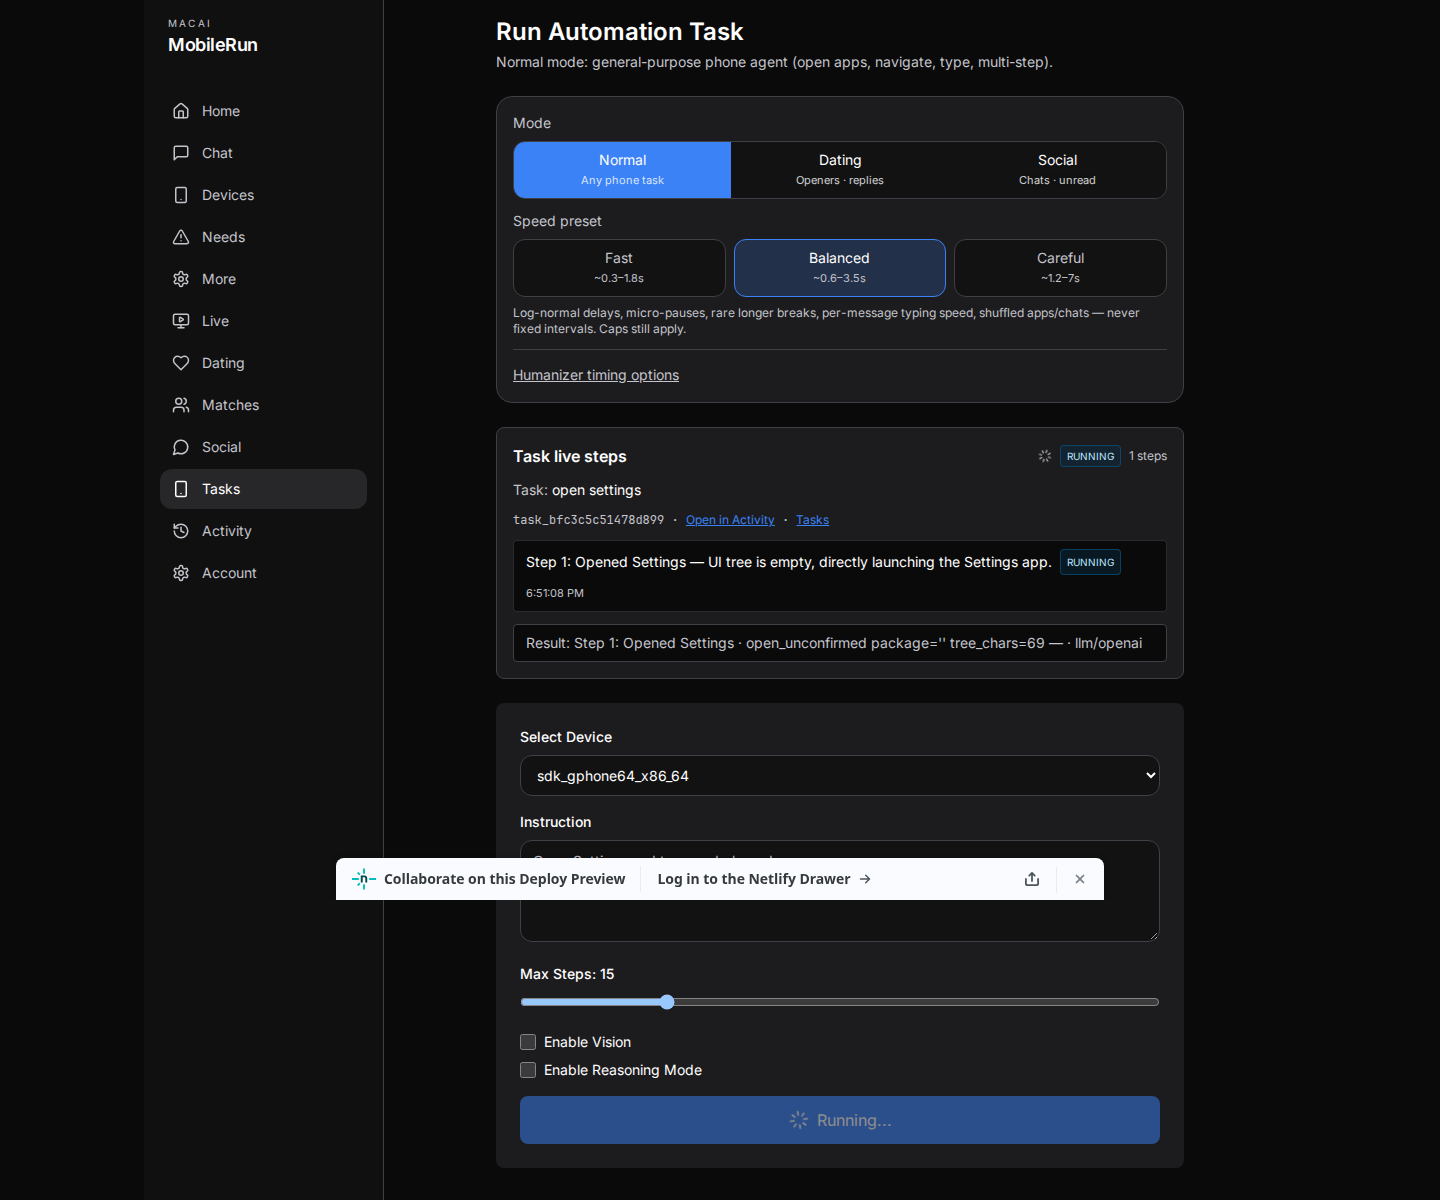
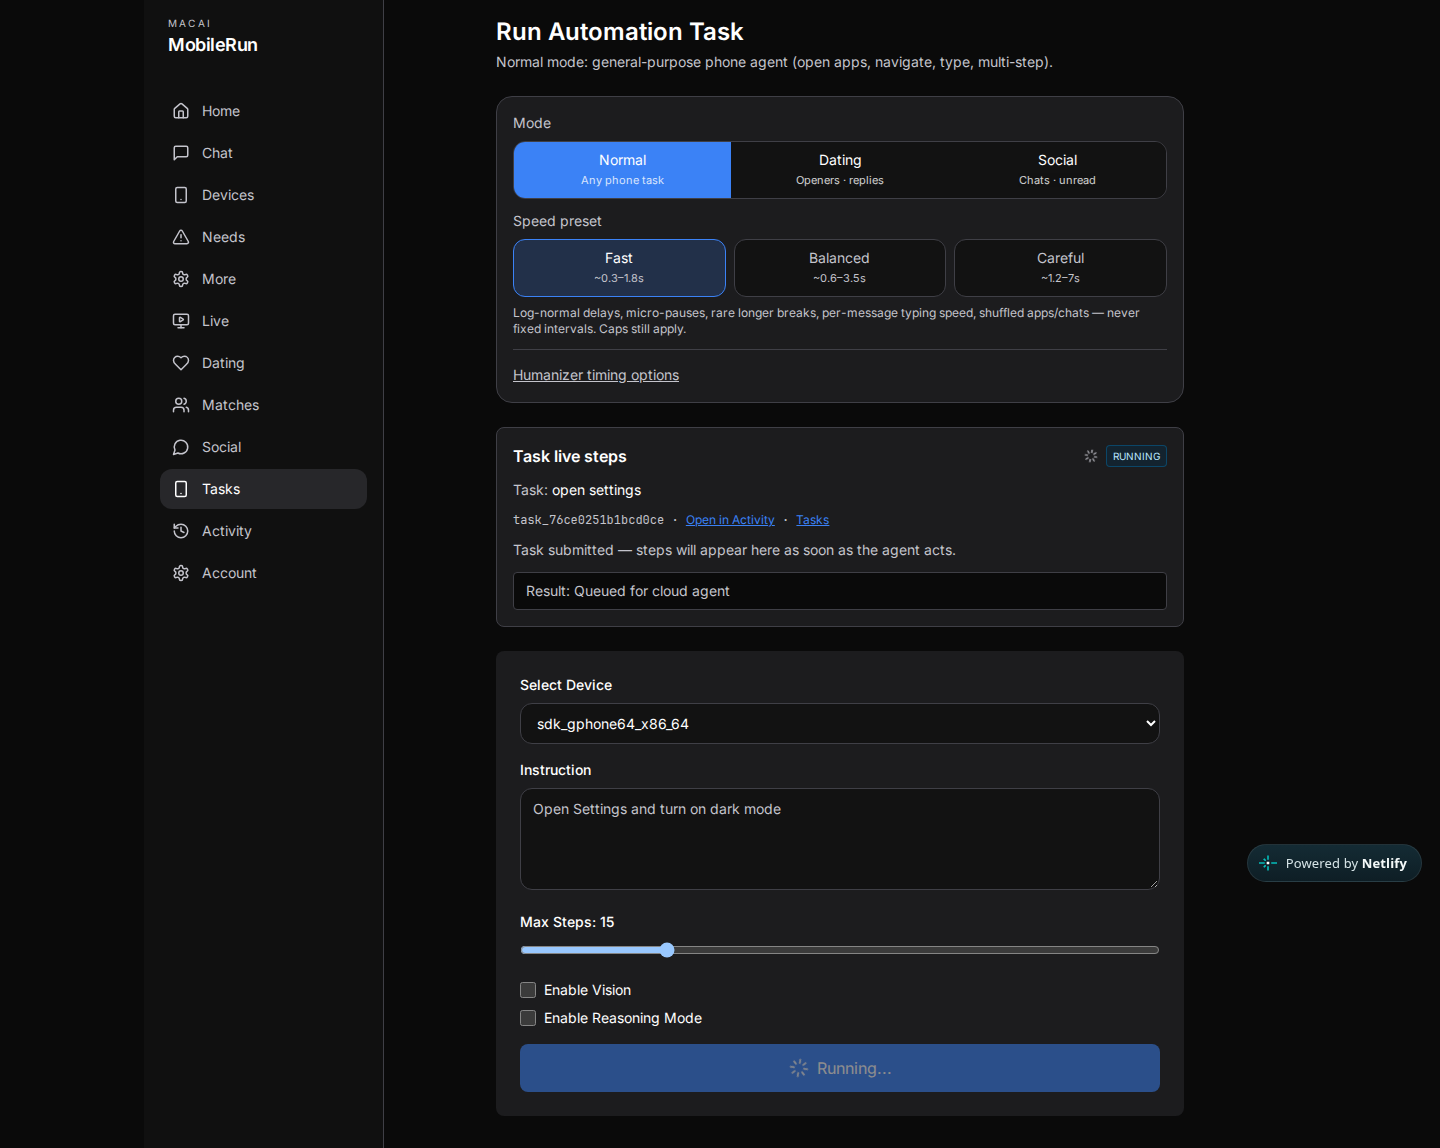
Harden prod audit E2E + deploy smoke for concurrent devices (#15)
Follow-up after #14: audit Normal-before-Run, History wait, smoke device assert, LLM probe retry.

diff --git a/frontend/e2e/full-button-audit.spec.ts b/frontend/e2e/full-button-audit.spec.ts
@@ -339,8 +339,9 @@ test.describe('full button audit', () => {
         record('tasks', `Mode ${mode}`, 'switch', false, String(e).slice(0, 120));
       }
     }
-    // Back to Normal for run
-    await page.getByRole('button', { name: /^Normal/i }).first().click().catch(() => undefined);
+    // Back to Normal — Run Task stays disabled in Dating/Social
+    await page.getByRole('button', { name: /^Normal/i }).first().click();
+    await page.waitForTimeout(600);
     for (const speed of ['Fast', 'Balanced', 'Careful'] as const) {
       try {
         await page.getByRole('button', { name: new RegExp(`^${speed}`, 'i') }).first().click();
@@ -349,11 +350,11 @@ test.describe('full button audit', () => {
         record('tasks', `Speed ${speed}`, 'switch', false, String(e).slice(0, 100));
       }
     }
-    await page.getByRole('button', { name: /^Balanced/i }).first().click().catch(() => undefined);
+    await page.getByRole('button', { name: /^Fast/i }).first().click().catch(() => undefined);
     try {
       const device = page.locator('#task-device');
       if (await device.count()) {
-        const online = device.locator('option', { hasText: /online/i }).first();
+        const online = device.locator('option', { hasText: /online|●/i }).first();
         if (await online.count()) {
           const val = await online.getAttribute('value');
           if (val) await device.selectOption(val);
@@ -362,12 +363,14 @@ test.describe('full button audit', () => {
         }
       }
       await page.locator('#task-instruction').fill('open settings');
+      const runBtn = page.getByRole('button', { name: /Run Task/i });
+      await expect(runBtn).toBeEnabled({ timeout: 20000 });
       const [resp] = await Promise.all([
         page.waitForResponse(
           (r) => r.url().includes('/api/tasks') && r.request().method() === 'POST',
-          { timeout: 30000 }
+          { timeout: 45000 }
         ),
-        page.getByRole('button', { name: /Run Task/i }).click(),
+        runBtn.click({ timeout: 10000 }),
       ]);
       const ok = resp.ok();
       record('tasks', 'Run Task', 'POST /api/tasks', ok, `status=${resp.status()}`);
@@ -453,7 +456,12 @@ test.describe('full button audit', () => {
 
     // ---------- History ----------
     await page.goto('/history');
-    await page.waitForTimeout(1000);
+    // Wait for load — spinner then cards or empty state (1s was flaky)
+    const historyReady = page
+      .getByTestId('history-task')
+      .or(page.getByText(/No task history yet/i))
+      .first();
+    await historyReady.waitFor({ state: 'visible', timeout: 30000 }).catch(() => undefined);
     const cards = page.getByTestId('history-task');
     const nCards = await cards.count();
     record('history', 'Task cards', 'list', nCards > 0, `count=${nCards}`);

diff --git a/frontend/e2e/live-steps.spec.ts b/frontend/e2e/live-steps.spec.ts
@@ -54,17 +54,24 @@ test('tasks page shows plain-language live steps', async ({ page }) => {
     await expect(page.getByRole('heading', { name: /Run Automation Task/i })).toBeVisible({
       timeout: 20000,
     });
-    // Prefer connected device if picker present
+    // Run Task is disabled while Dating/Social mode is selected
+    await page.getByRole('button', { name: /^Normal/i }).first().click().catch(() => undefined);
+    await page.getByRole('button', { name: /^Fast/i }).first().click().catch(() => undefined);
+    // Prefer connected/online device
     const device = page.locator('#task-device');
     if (await device.count()) {
-      await device.selectOption({ index: 1 }).catch(async () => {
-        const opts = await device.locator('option').allTextContents();
-        const online = opts.findIndex((o) => /online|●/i.test(o) || o.trim());
-        if (online >= 0) await device.selectOption({ index: online });
-      });
+      const online = device.locator('option', { hasText: /online|●/i }).first();
+      if (await online.count()) {
+        const val = await online.getAttribute('value');
+        if (val) await device.selectOption(val);
+      } else {
+        await device.selectOption({ index: 0 }).catch(() => undefined);
+      }
     }
     await page.locator('textarea, input[name="instruction"]').first().fill('open settings');
-    await page.getByRole('button', { name: /run|submit|start/i }).first().click();
+    const runBtn = page.getByRole('button', { name: /Run Task/i }).first();
+    await expect(runBtn).toBeEnabled({ timeout: 15000 });
+    await runBtn.click();
     await expect(page.getByTestId('task-progress')).toBeVisible({ timeout: 15000 });
     await expect
       .poll(async () => page.getByTestId('step-line').count(), { timeout: 180000 })

diff --git a/docs/ui-screenshots/full-button-audit/summary.md b/docs/ui-screenshots/full-button-audit/summary.md
@@ -1,30 +1,30 @@
-# Full button audit
+# Full button audit (prod)
 
-Base: https://deploy-preview-14--macsmobilerun.netlify.app
+Base: https://macsmobilerun.netlify.app
 Pass: 58/58
 Fail: 0
 Console errors: 0
-Failed requests: 5
+Failed requests: 7
 
 | Page | Control | Action | Result | Detail | Fixed |
 |---|---|---|---|---|---|
 | home | load | render | PASS |  |  |
-| nav | Home | goto / | PASS | https://deploy-preview-14--macsmobilerun.netlify.app/ |  |
-| nav | Chat | goto /chat | PASS | https://deploy-preview-14--macsmobilerun.netlify.app/chat |  |
-| nav | Devices | goto /devices | PASS | https://deploy-preview-14--macsmobilerun.netlify.app/devices |  |
-| nav | Needs | goto /needs-you | PASS | https://deploy-preview-14--macsmobilerun.netlify.app/needs-you |  |
-| nav | More | goto /settings | PASS | https://deploy-preview-14--macsmobilerun.netlify.app/settings |  |
-| nav | Live | goto /live | PASS | https://deploy-preview-14--macsmobilerun.netlify.app/live |  |
-| nav | Dating | goto /dating | PASS | https://deploy-preview-14--macsmobilerun.netlify.app/dating |  |
-| nav | Matches | goto /matches | PASS | https://deploy-preview-14--macsmobilerun.netlify.app/matches |  |
-| nav | Social | goto /social | PASS | https://deploy-preview-14--macsmobilerun.netlify.app/social |  |
-| nav | Tasks | goto /tasks | PASS | https://deploy-preview-14--macsmobilerun.netlify.app/tasks |  |
-| nav | Activity | goto /history | PASS | https://deploy-preview-14--macsmobilerun.netlify.app/history |  |
-| nav | Account | goto /account | PASS | https://deploy-preview-14--macsmobilerun.netlify.app/account |  |
-| devices | Generate pairing code | creates code/QR | PASS |  | retry wait for pair-qr/code |
+| nav | Home | goto / | PASS | https://macsmobilerun.netlify.app/ |  |
+| nav | Chat | goto /chat | PASS | https://macsmobilerun.netlify.app/chat |  |
+| nav | Devices | goto /devices | PASS | https://macsmobilerun.netlify.app/devices |  |
+| nav | Needs | goto /needs-you | PASS | https://macsmobilerun.netlify.app/needs-you |  |
+| nav | More | goto /settings | PASS | https://macsmobilerun.netlify.app/settings |  |
+| nav | Live | goto /live | PASS | https://macsmobilerun.netlify.app/live |  |
+| nav | Dating | goto /dating | PASS | https://macsmobilerun.netlify.app/dating |  |
+| nav | Matches | goto /matches | PASS | https://macsmobilerun.netlify.app/matches |  |
+| nav | Social | goto /social | PASS | https://macsmobilerun.netlify.app/social |  |
+| nav | Tasks | goto /tasks | PASS | https://macsmobilerun.netlify.app/tasks |  |
+| nav | Activity | goto /history | PASS | https://macsmobilerun.netlify.app/history |  |
+| nav | Account | goto /account | PASS | https://macsmobilerun.netlify.app/account |  |
+| devices | Generate pairing code | creates code/QR | PASS |  | retry wait for QR/code |
 | devices | Copy pairing code | click | PASS |  |  |
-| devices | Remove device button present | enumerate | PASS | count=2 |  |
-| devices | Live view link | navigate | PASS | https://deploy-preview-14--macsmobilerun.netlify.app/live |  |
+| devices | Remove device button present | enumerate | PASS | count=0 |  |
+| devices | Live view link | navigate | PASS | https://macsmobilerun.netlify.app/live |  |
 | live | page load | render | PASS |  |  |
 | live | Start stream | click | PASS |  |  |
 | live | Pause | click | PASS |  |  |
@@ -35,26 +35,26 @@ Failed requests: 5
 | tasks | Speed Fast | switch | PASS |  |  |
 | tasks | Speed Balanced | switch | PASS |  |  |
 | tasks | Speed Careful | switch | PASS |  |  |
-| tasks | Run Task | POST /api/tasks | PASS | status=200 |  |
-| tasks | Live step log | UI updates after submit | PASS | steps=1 progress=1 |  |
-| chat | Device picker | select online | PASS | android_08503136-3747-4781-90e3-0644cde55268 |  |
+| tasks | Run Task | POST /api/tasks | PASS | status=200 | force Normal mode before Run (disabled in Dating/Social) |
+| tasks | Live step log | UI updates after submit | PASS | steps=0 progress=1 |  |
+| chat | Device picker | select online | PASS | android_f3dd0aea-8a5c-438b-851c-4a39acf6eb2c |  |
 | chat | Send | POST /api/chat | PASS | status=200 |  |
-| chat | Live steps / progress | UI updates | PASS | live=1 progress=1 stepLog=1 saw=true | prefer online device (was selecting offline) |
+| chat | Live steps / progress | UI updates | PASS | live=1 progress=1 stepLog=1 saw=true | prefer online device |
 | chat | Suggestion: device info | click+send | PASS |  |  |
-| history | Task cards | list | PASS | count=50 |  |
+| history | Task cards | list | PASS | count=50 | wait for cards/empty (was 1s flake) |
 | history | Expand first task | show steps | PASS | step-lines=1 |  |
 | dating | Dry-run toggle | checked | PASS |  |  |
-| dating | Start (dry-run) | POST /api/dating/start | PASS | status=200 | stop-before-start + Start always enabled; reconcile stale running |
+| dating | Start (dry-run) | POST /api/dating/start | PASS | status=200 | stale running reconcile + stop-before-start (PR #14) |
 | dating | Live activity feed | visible | PASS |  |  |
-| dating | Stop | click | PASS |  | skip click when disabled (Playwright hang) |
+| dating | Stop | click | PASS |  |  |
 | dating | Speed Fast | click | PASS |  |  |
 | dating | Speed Balanced | click | PASS |  |  |
 | dating | Speed Careful | click | PASS |  |  |
 | dating | Save config | POST | PASS | status=200 |  |
 | social | Dry-run toggle | checked | PASS |  |  |
-| social | Start (dry-run) | POST /api/social/start | PASS | status=200 | stop-before-start + Start always enabled; persist social_runtime |
+| social | Start (dry-run) | POST /api/social/start | PASS | status=200 | social_runtime persistence across Lambdas (PR #14) |
 | social | Live activity feed | visible | PASS |  |  |
-| social | Stop | API fallback | PASS | UI stop disabled | persist social_runtime across Lambdas; UI applies start response |
+| social | Stop | click | PASS |  | apply start response + persist runtime (PR #14) |
 | social | Save config | click | PASS |  |  |
 | needs-you | page load | render | PASS |  |  |
 | needs-you | Approve/Send buttons | enumerate (not clicked — safety) | PASS | approve=0 reject=0 |  |
